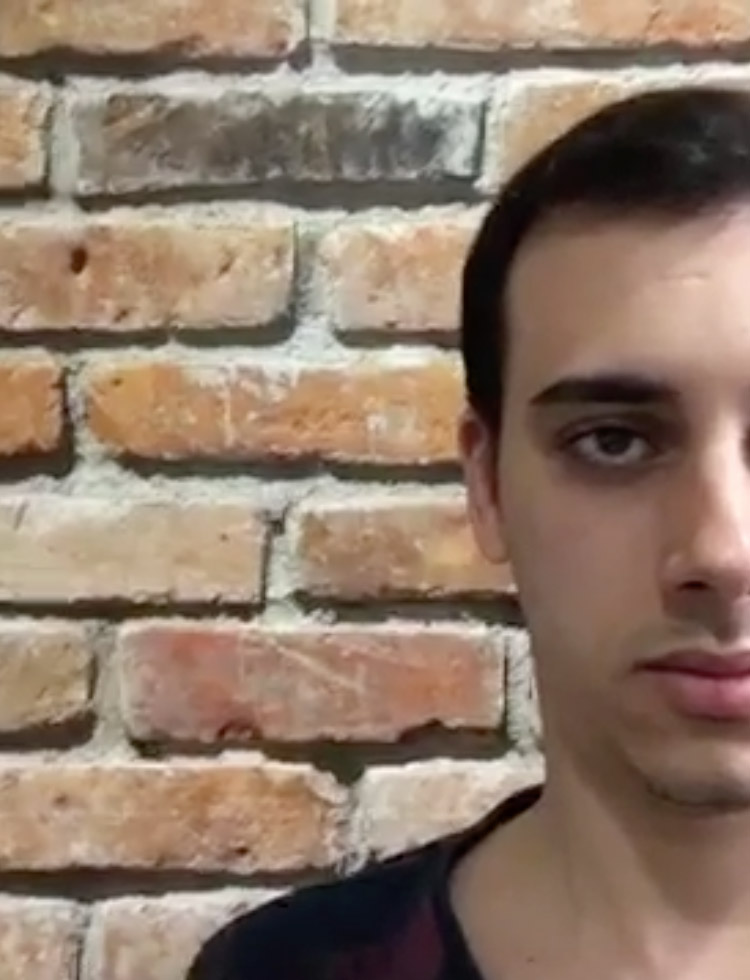
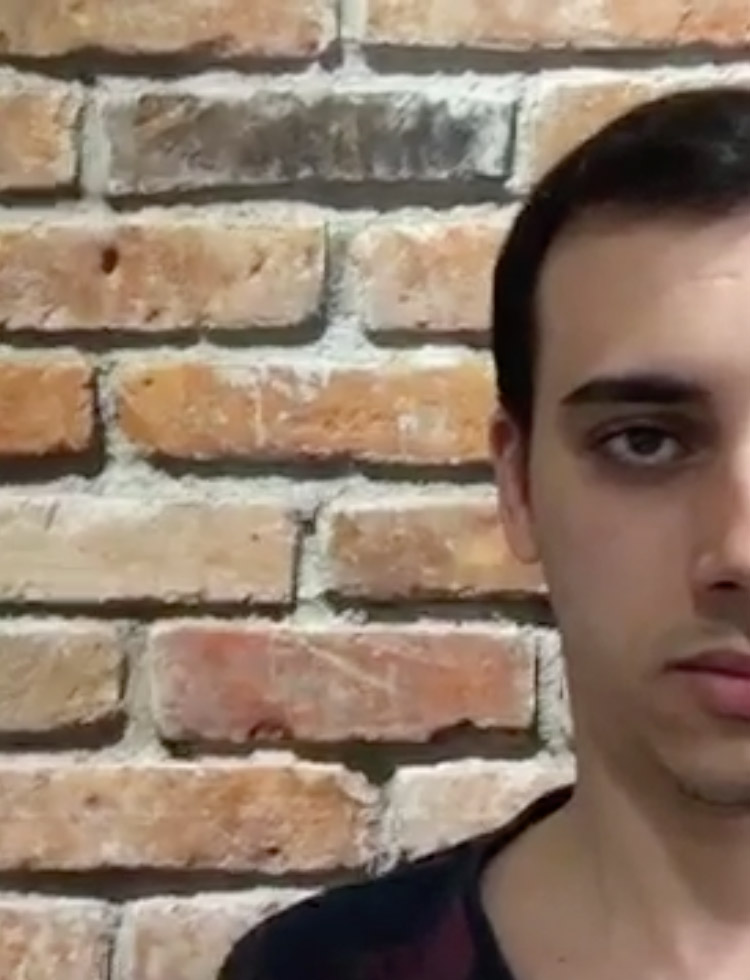
Topo responsivo

diff --git a/assets/css/layout.css b/assets/css/layout.css
@@ -1,2 +1,2 @@
-*{box-sizing:border-box;margin:0;padding:0;transition:all 500ms}input{border-radius:0;-webkit-appearance:none}html,body{height:100%}body{color:#000;font:100 18px/1.3em "Lato",Arial,serif}.limite{overflow:hidden}@media (max-width: 739px){.limite{margin:0 40px}}@media (min-width: 740px){.limite{margin:0 auto;max-width:700px}}@media (max-width: 499px){.secao{padding:40px 0}}@media (min-width: 500px){.secao{padding:80px 0}}.tt{background-image:linear-gradient(to right, #000, #000);background-repeat:no-repeat;background-position:center bottom;font-size:22px;font-weight:300;letter-spacing:1px;padding-bottom:10px;text-align:center;text-transform:uppercase}@media (max-width: 499px){.tt{background-size:50px 2px;margin-bottom:40px}}@media (min-width: 500px){.tt{background-size:80px 2px;margin-bottom:60px}}.topo{background-size:cover;left:0;height:100%;overflow:hidden;position:absolute;top:0;width:100%}.topo-pattern{background:rgba(0,0,0,0.7);height:100%;left:0;position:absolute;top:0;width:100%;z-index:2}.topo-info{color:#fff;left:50%;position:absolute;transform:translate(-50%, 0);top:50%;z-index:3}.topo-nome{font-weight:400;letter-spacing:2px;text-transform:uppercase;word-spacing:5px}.topo-profissao{font-weight:300;letter-spacing:5px;text-transform:uppercase}@media (max-width: 749px){.topo{background:url(../img/topo-caue-750.jpg) no-repeat center}.topo-video{display:none}}@media (min-width: 750px){.topo-video{left:50%;min-height:100%;min-width:100%;position:absolute;transform:translate(-50%, -50%);top:50%;z-index:1}}@media (max-width: 1299px){.topo-info{background:red;width:90%}.topo-nome{font-size:41px;margin-bottom:20px}.topo-profissao{font-size:14px;word-spacing:2px}}@media (min-width: 1300px){.topo-info{background:#00f;width:1200px}.topo-nome{font-size:69px;margin-bottom:50px}.topo-profissao{font-size:27px;word-spacing:5px}}.principal{position:absolute;top:100%;width:100%;z-index:1}.sobre{background:#eee}.sobre-foto{border-radius:100%;width:110px}.sobre-link{color:#000}.sobre-link:hover{text-decoration:none}@media (max-width: 629px){.sobre-foto{display:block;margin:0 auto}.sobre-texto{margin-top:15px}}@media (min-width: 630px){.sobre-foto{float:left;margin-right:20px}.sobre-texto{padding-top:15px}}.habilidades{background:#333;color:#fff}.habilidades-tt{background-image:linear-gradient(to right, #fff, #fff)}.habilidades-lista{margin:-20px auto 0;overflow:hidden}.habilidades-item{list-style:inside;margin-top:20px}@media (min-width: 740px){.habilidades-item{float:left;width:25%}}.portfolio{background:#fff;overflow:hidden;padding-bottom:0}.portfolio-item{float:left;overflow:hidden;position:relative}.portfolio-item:hover .portfolio-foto{transform:scale(1.5)}.portfolio-item:hover .portfolio-info{background:rgba(0,0,0,0.8);opacity:1}.portfolio-foto,.portfolio-info,.portfolio-link{height:100%;left:0;position:absolute;top:0;max-width:100%;width:100%}.portfolio-info{color:#fff;opacity:0}.portfolio-empresa,.portfolio-tipo{position:absolute;text-align:center;top:50%;width:100%;word-spacing:5px}.portfolio-empresa{display:block;font-size:22px;margin-top:-20px;text-transform:uppercase}.portfolio-tipo{display:block;margin-top:20px}@media (max-width: 499px){.portfolio-item{padding-bottom:67%;width:100%}}@media (min-width: 500px) and (max-width: 899px){.portfolio-item{padding-bottom:33.6%;width:50%}}@media (min-width: 900px){.portfolio-item{padding-bottom:22.3%;width:33.33%}}.contato{background:#111}.contato-tt{background-image:linear-gradient(to right, #fff, #fff);color:#fff}.contato-form{margin:0 auto;overflow:hidden}.contato-campo{background:#fff;border:none;color:#000;font-size:14px;margin-bottom:1px;outline:0;padding:8px 10px;width:100%}.contato-mensagem{float:left;height:150px;overflow:auto;resize:none}.contato-btn{background:#fff;border:none;color:#000;cursor:pointer;float:right;font-size:14px;outline:0;padding:8px 15px}.contato-erro{background:rgba(255,0,0,0.7);color:#fff;font-size:12px;padding:3px 10px}@media (min-width: 440px){.contato-form{max-width:400px}}
+*{box-sizing:border-box;margin:0;padding:0;transition:all 500ms}input{border-radius:0;-webkit-appearance:none}html,body{height:100%}body{color:#000;font:100 18px/1.3em "Lato",Arial,serif}.limite{overflow:hidden}@media (max-width: 739px){.limite{margin:0 40px}}@media (min-width: 740px){.limite{margin:0 auto;max-width:700px}}@media (max-width: 499px){.secao{padding:40px 0}}@media (min-width: 500px){.secao{padding:80px 0}}.tt{background-image:linear-gradient(to right, #000, #000);background-repeat:no-repeat;background-position:center bottom;font-size:22px;font-weight:300;letter-spacing:1px;padding-bottom:10px;text-align:center;text-transform:uppercase}@media (max-width: 499px){.tt{background-size:50px 2px;margin-bottom:40px}}@media (min-width: 500px){.tt{background-size:80px 2px;margin-bottom:60px}}.topo{background-size:cover;left:0;height:100%;overflow:hidden;position:absolute;top:0;width:100%}.topo-pattern{background:rgba(0,0,0,0.7);height:100%;left:0;position:absolute;top:0;width:100%;z-index:2}.topo-info{color:#fff;left:50%;position:absolute;transform:translate(-50%, 0);top:50%;z-index:3}.topo-nome{font-weight:400;text-transform:uppercase;word-spacing:5px}.topo-profissao{font-weight:300;text-transform:uppercase}@media (max-width: 749px){.topo{background:url(../img/topo-caue-750.jpg) no-repeat center right}.topo-video{display:none}}@media (max-width: 749px){.topo{text-alight:center}.topo-nome,.topo-profissao{letter-spacing:2px;text-align:center}.topo-nome{font-size:35px;margin-bottom:15px;word-spacing:5px}.topo-profissao{font-size:15px;word-spacing:5px}}@media (min-width: 750px){.topo-video{left:50%;min-height:100%;min-width:100%;position:absolute;transform:translate(-50%, -50%);top:50%;z-index:1}}@media (min-width: 750px) and (max-width: 1299px){.topo-nome{font-size:49px;margin-bottom:25px;word-spacing:2px}.topo-profissao{font-size:19px;letter-spacing:3px;word-spacing:2px}}@media (max-width: 1299px){.topo-info{width:90%}}@media (min-width: 1300px){.topo-info{width:1200px}.topo-nome,.topo-profissao{word-spacing:5px}.topo-nome{font-size:69px;margin-bottom:45px}.topo-profissao{font-size:27px;letter-spacing:4px}}.principal{position:absolute;top:100%;width:100%;z-index:1}.sobre{background:#eee}.sobre-foto{border-radius:100%;width:110px}.sobre-link{color:#000}.sobre-link:hover{text-decoration:none}@media (max-width: 629px){.sobre-foto{display:block;margin:0 auto}.sobre-texto{margin-top:15px}}@media (min-width: 630px){.sobre-foto{float:left;margin-right:20px}.sobre-texto{padding-top:15px}}.habilidades{background:#333;color:#fff}.habilidades-tt{background-image:linear-gradient(to right, #fff, #fff)}.habilidades-lista{margin:-20px auto 0;overflow:hidden}.habilidades-item{list-style:inside;margin-top:20px}@media (min-width: 740px){.habilidades-item{float:left;width:25%}}.portfolio{background:#fff;overflow:hidden;padding-bottom:0}.portfolio-item{float:left;overflow:hidden;position:relative}.portfolio-item:hover .portfolio-foto{transform:scale(1.5)}.portfolio-item:hover .portfolio-info{background:rgba(0,0,0,0.8);opacity:1}.portfolio-foto,.portfolio-info,.portfolio-link{height:100%;left:0;position:absolute;top:0;max-width:100%;width:100%}.portfolio-info{color:#fff;opacity:0}.portfolio-empresa,.portfolio-tipo{position:absolute;text-align:center;top:50%;width:100%;word-spacing:5px}.portfolio-empresa{display:block;font-size:22px;margin-top:-20px;text-transform:uppercase}.portfolio-tipo{display:block;margin-top:20px}@media (max-width: 499px){.portfolio-item{padding-bottom:67%;width:100%}}@media (min-width: 500px) and (max-width: 899px){.portfolio-item{padding-bottom:33.6%;width:50%}}@media (min-width: 900px){.portfolio-item{padding-bottom:22.3%;width:33.33%}}.contato{background:#111}.contato-tt{background-image:linear-gradient(to right, #fff, #fff);color:#fff}.contato-form{margin:0 auto;overflow:hidden}.contato-campo{background:#fff;border:none;color:#000;font-size:14px;margin-bottom:1px;outline:0;padding:8px 10px;width:100%}.contato-mensagem{float:left;height:150px;overflow:auto;resize:none}.contato-btn{background:#fff;border:none;color:#000;cursor:pointer;float:right;font-size:14px;outline:0;padding:8px 15px}.contato-erro{background:rgba(255,0,0,0.7);color:#fff;font-size:12px;padding:3px 10px}@media (min-width: 440px){.contato-form{max-width:400px}}
 /*# sourceMappingURL=layout.css.map */

diff --git a/assets/sass/layout.sass b/assets/sass/layout.sass
@@ -108,20 +108,35 @@ $vermelho: #f00
 		
 	&-nome
 		font-weight: 400
-		letter-spacing: 2px
 		text-transform: uppercase
 		word-spacing: 5px
 		
 	&-profissao
 		font-weight: 300
-		letter-spacing: 5px
 		text-transform: uppercase
 		
 	@media (max-width:749px)
-		background: url(#{$img}topo-caue-750.jpg) no-repeat center
+		background: url(#{$img}topo-caue-750.jpg) no-repeat center right
 	
 		&-video
 			display: none
+			
+	@media (max-width:749px)
+		text-alight: center
+	
+		&-nome,
+		&-profissao
+			letter-spacing: 2px
+			text-align: center
+	
+		&-nome
+			font-size: 35px
+			margin-bottom: 15px
+			word-spacing: 5px
+			
+		&-profissao
+			font-size: 15px
+			word-spacing: 5px
 			
 	@media (min-width:750px)
 		&-video
@@ -132,32 +147,37 @@ $vermelho: #f00
 			transform: translate(-50%, -50%)
 			top: 50%
 			z-index: 1
+			
+	@media (min-width:750px) and (max-width:1299px)
+		&-nome
+			font-size: 49px
+			margin-bottom: 25px
+			word-spacing: 2px
+			
+		&-profissao
+			font-size: 19px
+			letter-spacing: 3px
+			word-spacing: 2px
 		
 	@media (max-width:1299px)
 		&-info
-			background: #f00
 			width: 90%
-			
-		&-nome
-			font-size: 41px
-			margin-bottom: 20px
-			
-		&-profissao
-			font-size: 14px
-			word-spacing: 2px
 		
 	@media (min-width:1300px)
 		&-info
-			background: #00f
 			width: 1200px
+			
+		&-nome,
+		&-profissao
+			word-spacing: 5px
 			
 		&-nome
 			font-size: 69px
-			margin-bottom: 50px
+			margin-bottom: 45px
 			
 		&-profissao
 			font-size: 27px
-			word-spacing: 5px
+			letter-spacing: 4px
 
 
 
